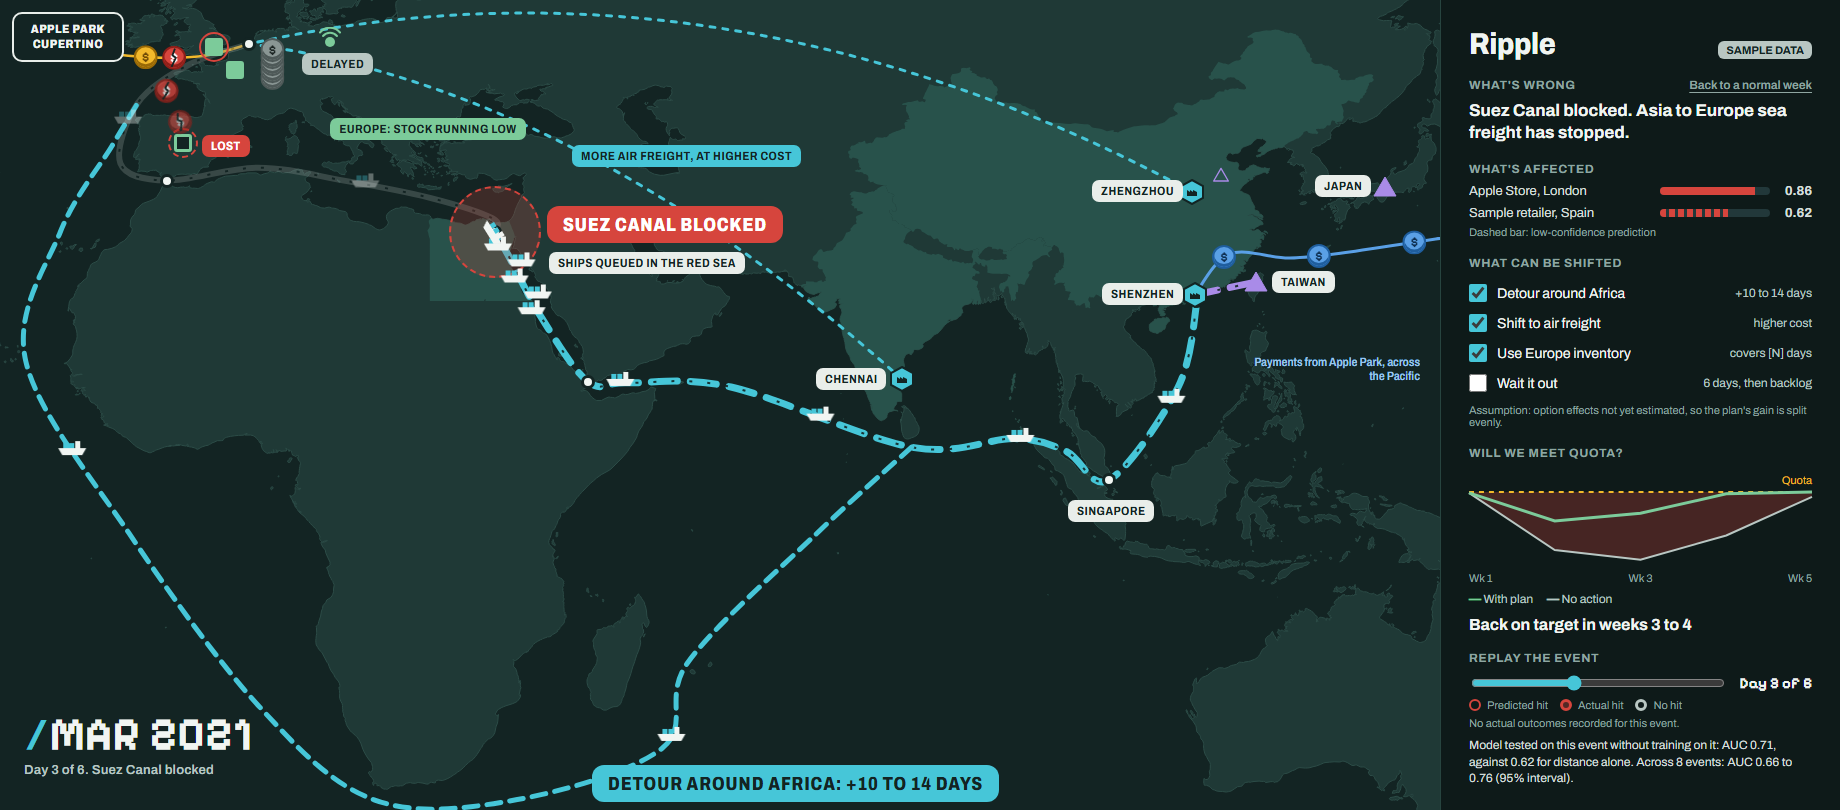
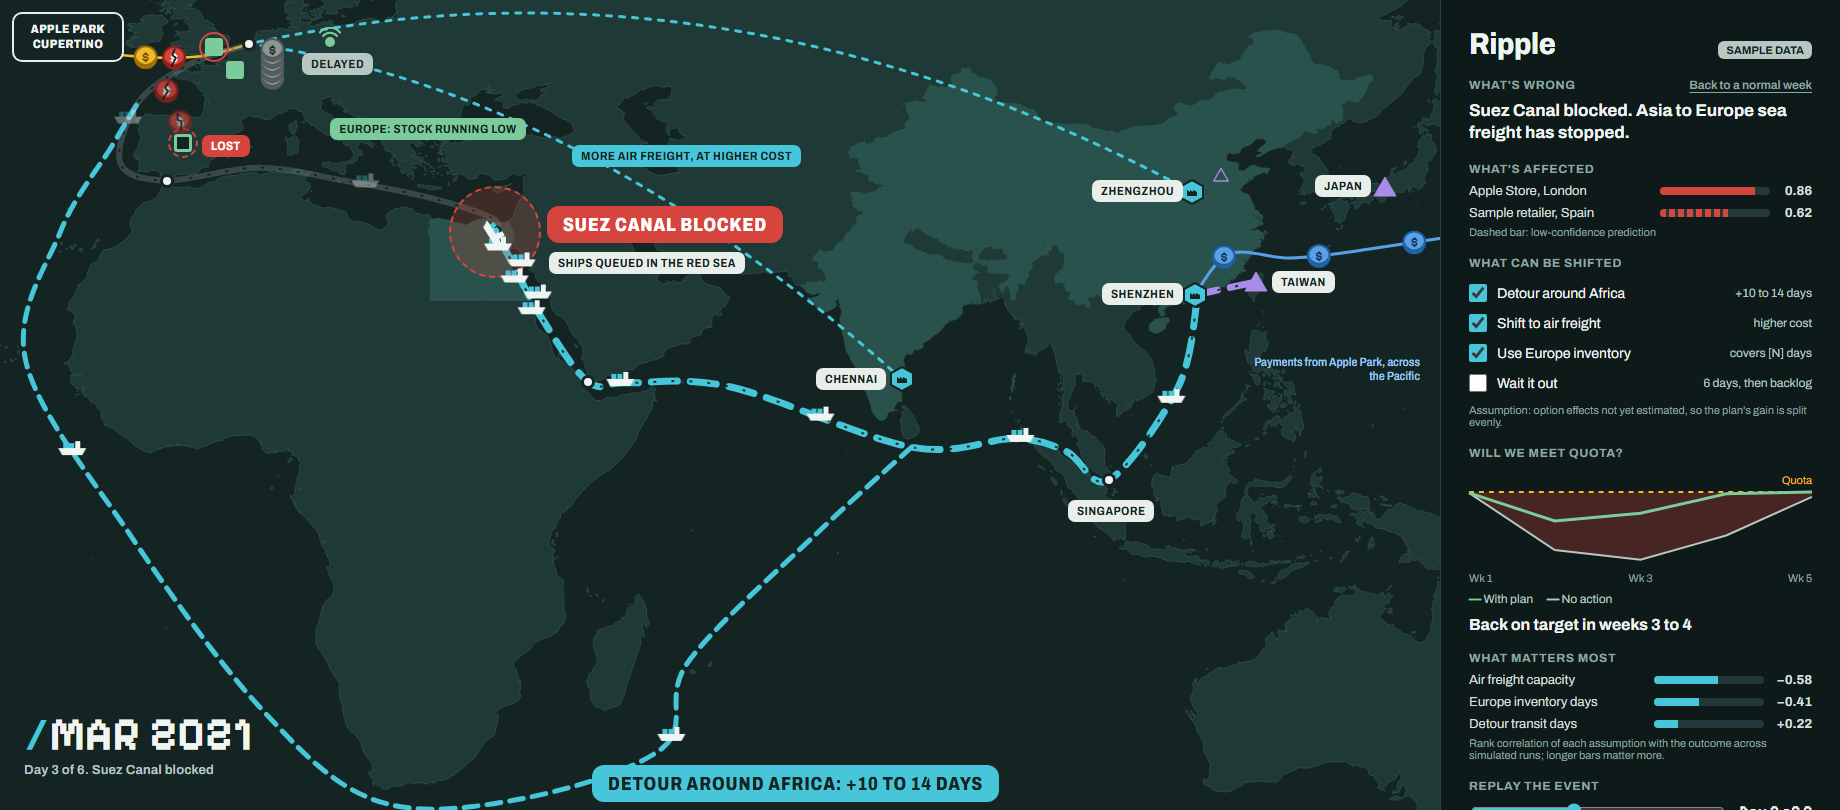
W13: refresh parity images after phase 2 panel sections

Changed region(s): [[0.7745, 0.8025, 0.9913, 1.0]]

diff --git a/web/parity/README.md b/web/parity/README.md
@@ -41,5 +41,5 @@ delayed coin stack, falling lost coins, and the four disruption sections with th
 | Year subtitle reads "Day 3 of 6. Suez Canal blocked" | "Based on the Ever Given blockage" is not in the scenario file; the title is. |
 | Quota note reads "On track: 99 of 100 units shipped", coin note "1 coin = $500M per week" | Filled from the scenario file where the reference has placeholders. |
 | What's affected lists two rows, not three | The fixture has two predictions; "Ships queued in Red Sea" is not a node prediction. |
-| Extra panel lines: option assumption note, "Back to a normal week", replay section | Data rules require labeling assumptions; W7 adds the replay; the link returns to free flow. |
+| Extra panel lines: option assumption note, "Back to a normal week", "What matters most", replay section | Data rules require labeling assumptions; W11 adds the sensitivity chart and W7 the replay (the panel scrolls); the link returns to free flow. |
 | Quota chart has 5 points, not 7 | The fixture has 5 weeks. |
